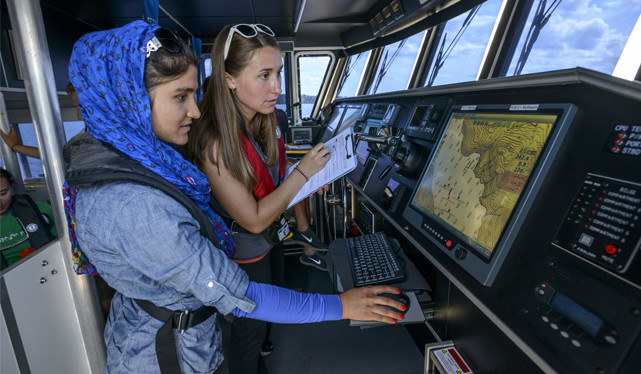
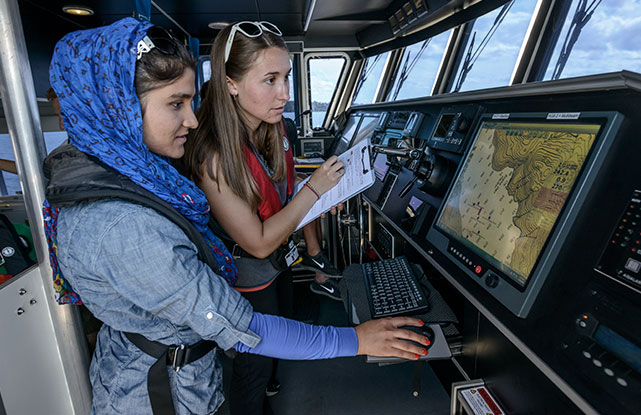
msoe: Increase hero image height to accommodate for Current University field being added to Pardot form on home page.

diff --git a/middlebury.edu/2010/css/msoe.css b/middlebury.edu/2010/css/msoe.css
@@ -95,7 +95,7 @@ form.search {
 }
 
 .hero {
-  height: 374px;
+  height: 415px;
 }
 
 .hero-banner {
